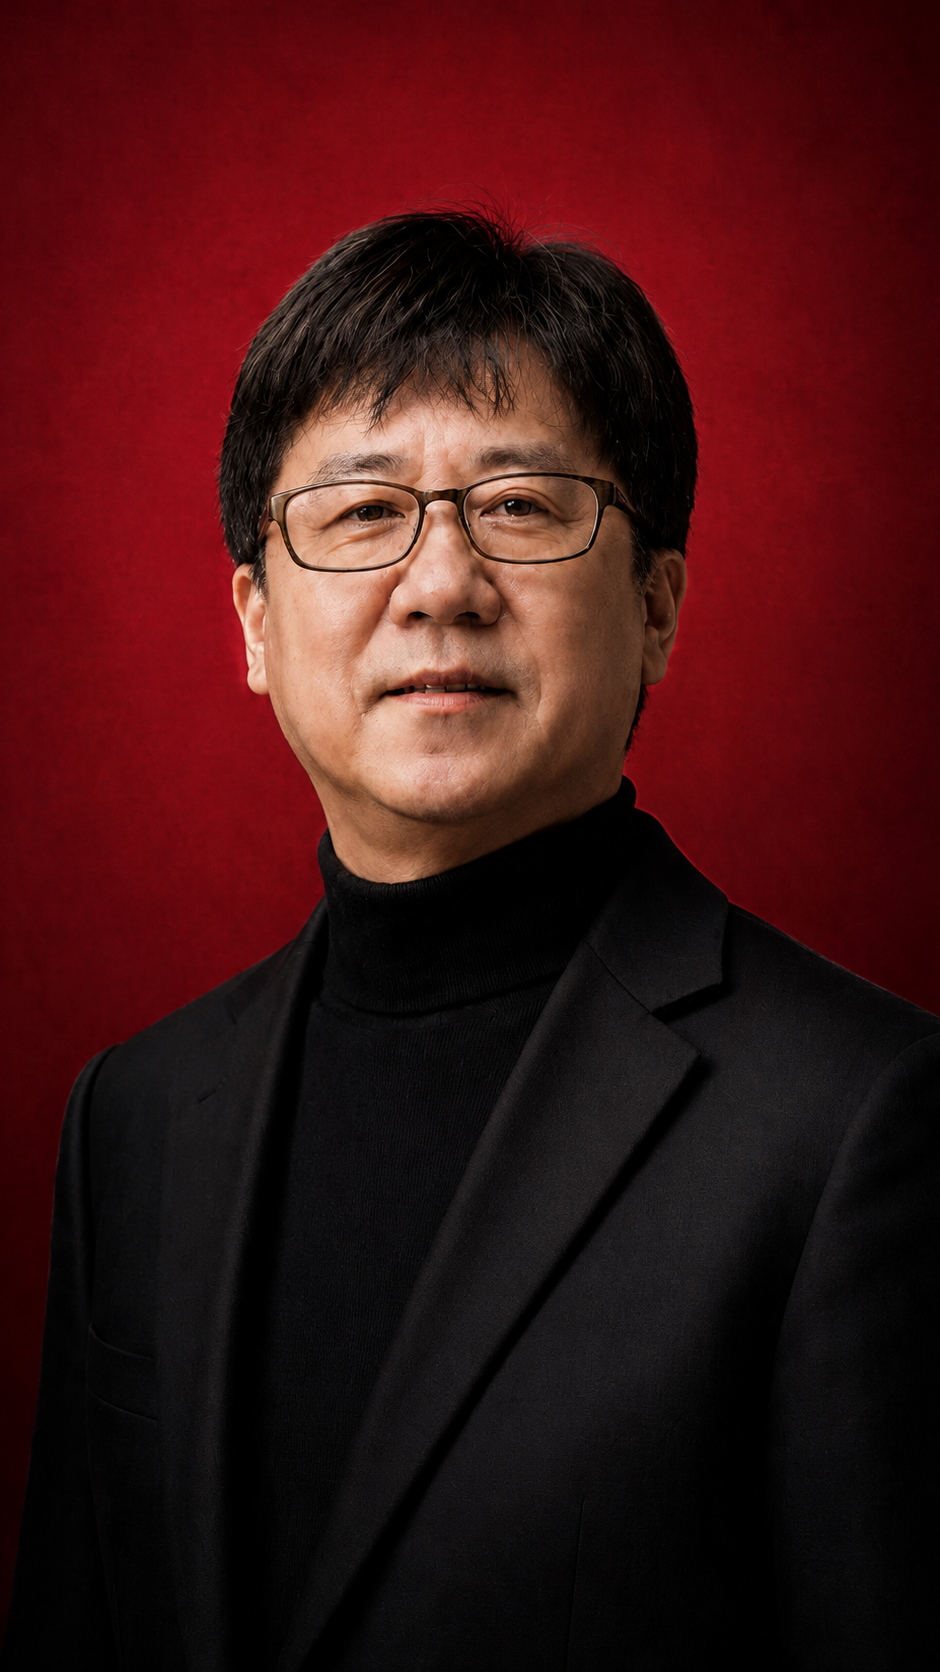
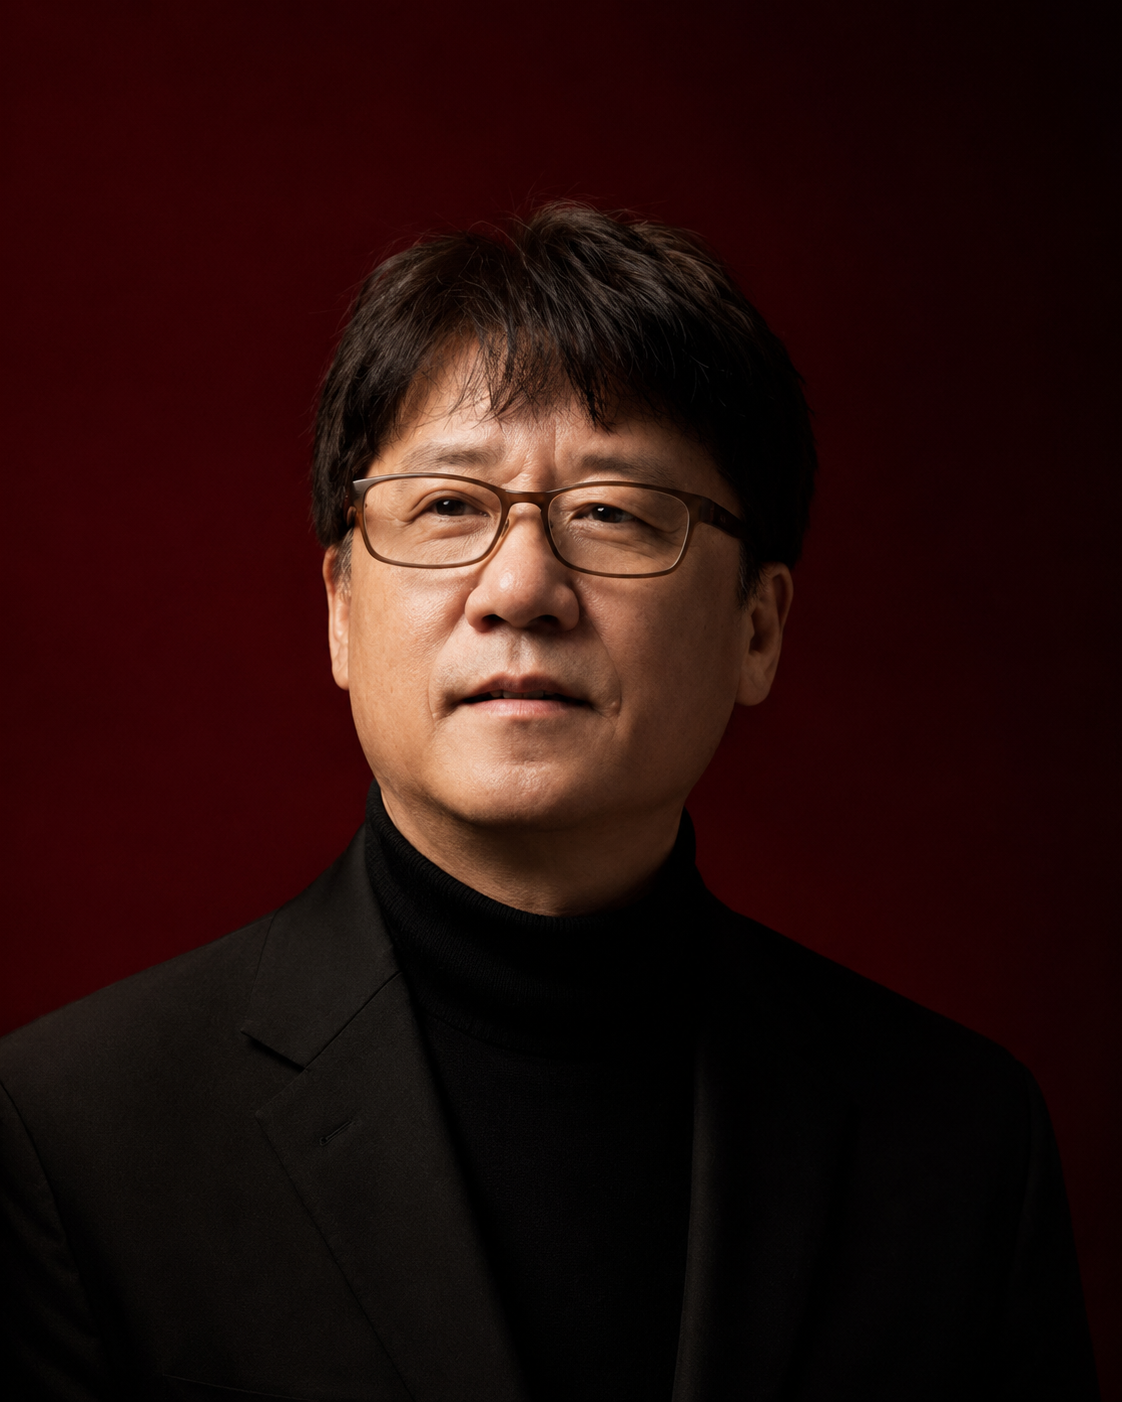
Add files via upload

diff --git a/index.html b/index.html
@@ -4,7 +4,7 @@
     <meta charset="UTF-8" />
     <meta name="viewport" content="width=device-width, initial-scale=1.0" />
     <title>강의 포트폴리오</title>
-    <link rel="stylesheet" href="./style.css?v=20260803-9" />
+    <link rel="stylesheet" href="./style.css?v=20260806-2" />
   </head>
   <body data-page="home">
     <main class="page">
@@ -19,27 +19,28 @@
                 <br />
                 AI 에이전트, 생성형 AI, 스마트폰, 컴퓨터, 키오스크 등 디지털 전문 강의를 진행합니다.
               </p>
-              <img class="hero-photo" src="./profile-photo-new.png" alt="시디놀 임만식 프로필 사진" />
+              <img class="hero-photo" src="./profile-photo-new.png?photo=20260806-2" alt="시디놀 임만식 프로필 사진" />
             </div>
             <div class="hero-actions">
               <a href="#open-section">수강신청</a>
-              <a class="icon-action" href="tel:01037876305" aria-label="전화 문의">
-                <svg viewBox="0 0 24 24" aria-hidden="true">
-                  <path d="M22 16.9v3a2 2 0 0 1-2.2 2 19.8 19.8 0 0 1-8.6-3.1 19.5 19.5 0 0 1-6-6A19.8 19.8 0 0 1 2.1 4.2 2 2 0 0 1 4.1 2h3a2 2 0 0 1 2 1.7c.1 1 .4 2 .7 2.8a2 2 0 0 1-.4 2.1L8.1 9.9a16 16 0 0 0 6 6l1.3-1.3a2 2 0 0 1 2.1-.4c.9.3 1.8.6 2.8.7A2 2 0 0 1 22 16.9Z" />
-                </svg>
-              </a>
-              <a class="icon-action" href="mailto:imssjs@hanmail.net?subject=강의 문의" aria-label="메일 문의">
-                <svg viewBox="0 0 24 24" aria-hidden="true">
-                  <path d="M4 4h16a2 2 0 0 1 2 2v12a2 2 0 0 1-2 2H4a2 2 0 0 1-2-2V6a2 2 0 0 1 2-2Z" />
-                  <path d="m22 7-10 6L2 7" />
-                </svg>
-              </a>
+              <a href="https://forms.gle/AXUuiS46m5kyT9Lg6" target="_blank" rel="noreferrer">상담신청</a>
               <a class="history-action" href="./history.html">강의이력</a>
             </div>
           </div>
           <aside class="profile-card" aria-label="강사 요약">
             <strong>현장 중심 디지털 교육</strong>
             <div class="profile-links">
+              <a class="contact-link" href="tel:01037876305" aria-label="전화 문의">
+                <svg viewBox="0 0 24 24" aria-hidden="true">
+                  <path d="M22 16.9v3a2 2 0 0 1-2.2 2 19.8 19.8 0 0 1-8.6-3.1 19.5 19.5 0 0 1-6-6A19.8 19.8 0 0 1 2.1 4.2 2 2 0 0 1 4.1 2h3a2 2 0 0 1 2 1.7c.1 1 .4 2 .7 2.8a2 2 0 0 1-.4 2.1L8.1 9.9a16 16 0 0 0 6 6l1.3-1.3a2 2 0 0 1 2.1-.4c.9.3 1.8.6 2.8.7A2 2 0 0 1 22 16.9Z" />
+                </svg>
+              </a>
+              <a class="contact-link" href="mailto:imssjs@hanmail.net?subject=강의 문의" aria-label="메일 문의">
+                <svg viewBox="0 0 24 24" aria-hidden="true">
+                  <path d="M4 4h16a2 2 0 0 1 2 2v12a2 2 0 0 1-2 2H4a2 2 0 0 1-2-2V6a2 2 0 0 1 2-2Z" />
+                  <path d="m22 7-10 6L2 7" />
+                </svg>
+              </a>
               <a class="brand-link" href="https://www.instagram.com/si.di.nol" aria-label="Instagram">
                 <img src="https://cdn.simpleicons.org/instagram/E4405F" alt="" />
               </a>
@@ -49,18 +50,9 @@
               <a class="brand-link" href="https://m.blog.naver.com/imsimd" aria-label="네이버 블로그">
                 <img src="https://cdn.simpleicons.org/naver/03C75A" alt="" />
               </a>
-              <a class="news-link" href="https://www.fntoday.co.kr/news/articleView.html?idxno=375219" aria-label="신문 1">
+              <button class="news-link" type="button" data-news-modal aria-label="신문 기사 보기">
                 <em>신문</em>
-                <span>1</span>
-              </a>
-              <a class="news-link" href="https://www.donga.com/news/Society/article/all/20220724/114622201/1" aria-label="신문 2">
-                <em>신문</em>
-                <span>2</span>
-              </a>
-              <a class="news-link" href="https://www.lecturernews.com/news/articleView.html?idxno=106831" aria-label="신문 3">
-                <em>신문</em>
-                <span>3</span>
-              </a>
+              </button>
             </div>
           </aside>
         </div>
@@ -128,6 +120,19 @@
         <p class="modal-summary" id="modalSummary"></p>
         <div class="tag-row" id="modalTags"></div>
         <div id="modalApply"></div>
+      </article>
+    </div>
+
+    <div class="modal" id="newsModal" aria-hidden="true">
+      <div class="modal-backdrop" data-close-news-modal></div>
+      <article class="modal-panel news-modal-panel" role="dialog" aria-modal="true" aria-labelledby="newsModalTitle">
+        <button class="modal-close" type="button" aria-label="닫기" data-close-news-modal>×</button>
+        <h3 id="newsModalTitle">신문 기사</h3>
+        <div class="news-list">
+          <a href="https://www.fntoday.co.kr/news/articleView.html?idxno=375219" target="_blank" rel="noreferrer">파이낸스투데이</a>
+          <a href="https://www.donga.com/news/Society/article/all/20220724/114622201/1" target="_blank" rel="noreferrer">동아일보</a>
+          <a href="https://www.lecturernews.com/news/articleView.html?idxno=106831" target="_blank" rel="noreferrer">한국강사신문</a>
+        </div>
       </article>
     </div>
 

diff --git a/style.css b/style.css
@@ -151,7 +151,8 @@ h1 {
   box-shadow: 0 10px 22px rgba(201, 162, 74, 0.26);
 }
 
-.hero-actions .icon-action svg {
+.hero-actions .icon-action svg,
+.profile-links .contact-link svg {
   width: 22px;
   height: 22px;
   fill: none;
@@ -187,11 +188,12 @@ h1 {
   display: flex;
   flex-wrap: wrap;
   justify-content: center;
-  gap: 6px;
+  gap: 8px;
   margin-top: 8px;
 }
 
-.profile-links a {
+.profile-links a,
+.profile-links button {
   display: inline-flex;
   align-items: center;
   justify-content: center;
@@ -209,16 +211,28 @@ h1 {
   box-shadow: 0 8px 18px rgba(0, 0, 0, 0.14);
 }
 
+.profile-links button {
+  border: 0;
+  cursor: pointer;
+  font: inherit;
+}
+
 .brand-link img {
   width: 19px;
   height: 19px;
   display: block;
 }
 
+.profile-links .contact-link {
+  color: #12365f;
+}
+
 .profile-links .news-link {
   position: relative;
   width: 52px;
   border-radius: 8px;
+  padding: 0 10px;
+  min-height: 38px;
   color: var(--navy);
 }
 
@@ -318,22 +332,6 @@ h1 {
   line-height: 1;
   white-space: nowrap;
   writing-mode: horizontal-tb;
-}
-
-.news-link span {
-  position: absolute;
-  right: -3px;
-  bottom: -3px;
-  z-index: 1;
-  display: grid;
-  place-items: center;
-  width: 18px;
-  height: 18px;
-  border-radius: 50%;
-  background: var(--blue);
-  color: #fff;
-  font-size: 0.72rem;
-  font-weight: 950;
 }
 
 .stats {
@@ -930,6 +928,28 @@ body[data-page="history"] .course-list.compact {
   line-height: 1.65;
 }
 
+.news-modal-panel {
+  max-width: 360px;
+}
+
+.news-list {
+  display: grid;
+  gap: 8px;
+  margin-top: 16px;
+}
+
+.news-list a {
+  display: flex;
+  align-items: center;
+  min-height: 42px;
+  padding: 0 14px;
+  border-radius: 8px;
+  background: #eef3f8;
+  color: var(--navy);
+  font-weight: 900;
+  text-decoration: none;
+}
+
 @media (max-width: 720px) {
   body {
     background:
@@ -1006,7 +1026,7 @@ body[data-page="history"] .course-list.compact {
   }
 
   .profile-links {
-    justify-content: center;
+    gap: 8px;
     margin-top: 8px;
   }
 

diff --git a/app.js b/app.js
@@ -354,6 +354,12 @@ document.addEventListener("click", (event) => {
 });
 
 document.addEventListener("click", (event) => {
+  if (!event.target.closest("[data-news-modal]")) return;
+  document.querySelector("#newsModal").classList.add("is-open");
+  document.querySelector("#newsModal").setAttribute("aria-hidden", "false");
+});
+
+document.addEventListener("click", (event) => {
   const row = event.target.closest("[data-course-index]");
   if (!row) return;
 
@@ -376,6 +382,12 @@ document.addEventListener("click", (event) => {
   if (!event.target.closest("[data-close-modal]")) return;
   document.querySelector("#courseModal").classList.remove("is-open");
   document.querySelector("#courseModal").setAttribute("aria-hidden", "true");
+});
+
+document.addEventListener("click", (event) => {
+  if (!event.target.closest("[data-close-news-modal]")) return;
+  document.querySelector("#newsModal").classList.remove("is-open");
+  document.querySelector("#newsModal").setAttribute("aria-hidden", "true");
 });
 
 document.querySelector("#historyFilter")?.addEventListener("change", (event) => {
